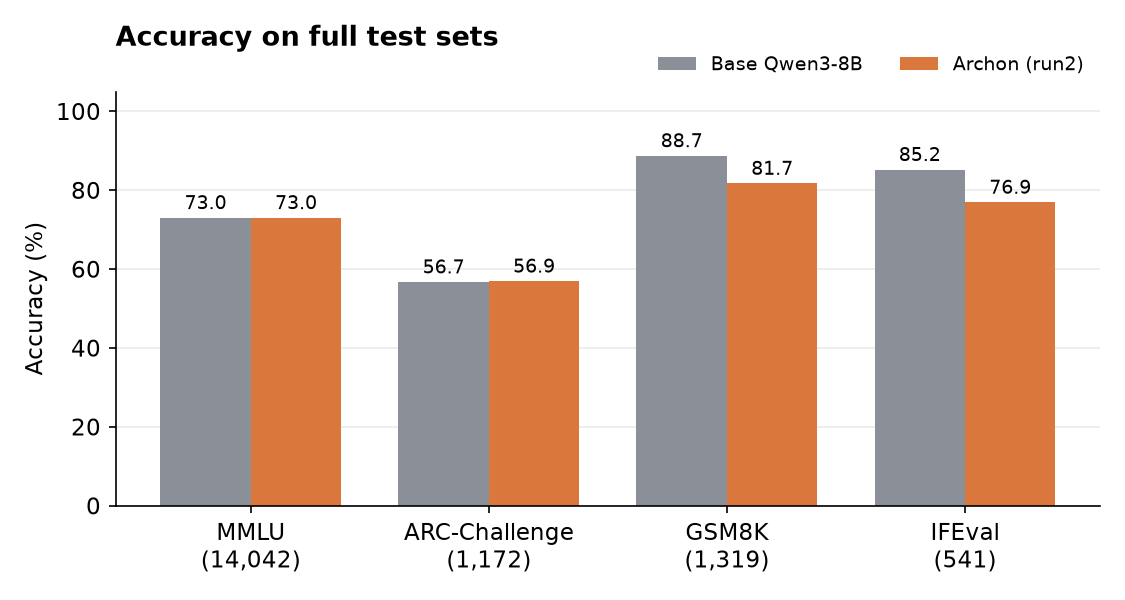
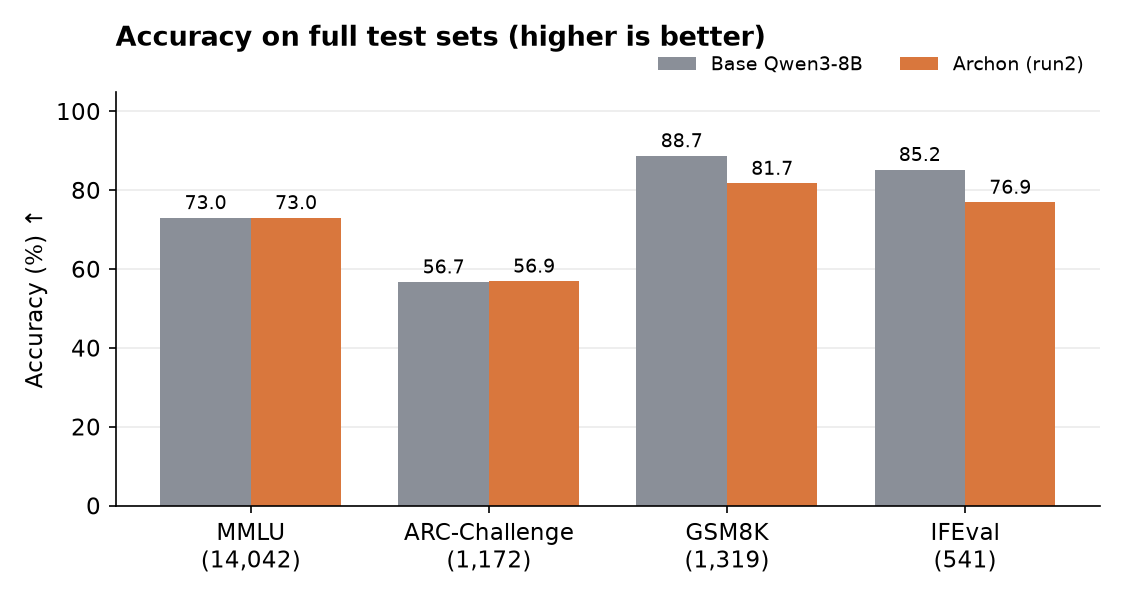
Charts and README: mark higher/lower is better

Changed region(s): [[0.4356, 0.03, 0.6844, 0.09], [0.0, 0.36, 0.0622, 0.57], [0.0, 0.6, 0.0622, 0.63]]

diff --git a/eval/bench_charts.py b/eval/bench_charts.py
@@ -22,11 +22,11 @@ def grouped(fname, title, ylabel, cats, base, ft, fmt, ymax=None):
     ax.legend(frameon=False, loc="lower right", bbox_to_anchor=(1, 1.0), ncol=2, fontsize=9); ax.grid(axis="y", alpha=0.25); ax.set_axisbelow(True)
     fig.tight_layout(); fig.savefig(f"{out}/{fname}", facecolor="white"); plt.close(fig)
 
-grouped("accuracy.png", "Accuracy on full test sets", "Accuracy (%)",
+grouped("accuracy.png", "Accuracy on full test sets (higher is better)", "Accuracy (%) ↑",
         ["MMLU\n(14,042)", "ARC-Challenge\n(1,172)", "GSM8K\n(1,319)", "IFEval\n(541)"],
         [73.0, 56.7, 88.7, 85.2], [73.0, 56.9, 81.7, 76.9], lambda v: f"{v:.1f}", 105)
-grouped("tokens.png", "Average tokens per answer, thinking included", "Tokens",
+grouped("tokens.png", "Tokens per answer, incl. thinking (lower is better)", "Tokens ↓",
         ["GSM8K", "IFEval"], [896, 1204], [281, 481], lambda v: f"{v:,.0f}")
-grouped("time.png", "Time per benchmark on one NVIDIA L4", "Minutes",
+grouped("time.png", "Time per benchmark on one L4 (lower is better)", "Minutes ↓",
         ["MMLU + ARC", "GSM8K", "IFEval", "Total"], [42, 103, 31, 176], [38, 36, 18, 92], lambda v: f"{v:.0f}")
 print("ok")

diff --git a/README.md b/README.md
@@ -51,7 +51,9 @@ wrong arithmetic (69 vs 31) and incoherent reasoning (67 vs 9). Full write-up in
 Full test sets, [lm-evaluation-harness](https://github.com/EleutherAI/lm-evaluation-harness) 0.4.13
 with vLLM on one NVIDIA L4, identical prompts and settings for both models.
 
-| Benchmark | Base Qwen3-8B | Archon (run 2) | Δ |
+Accuracy in %, higher is better.
+
+| Benchmark ↑ | Base Qwen3-8B | Archon (run 2) | Δ |
 |---|---|---|---|
 | MMLU (14,042, 5-shot) | 73.0 | 73.0 | 0.0 |
 | ARC-Challenge (1,172, acc_norm) | 56.7 | 56.9 | +0.2 |
@@ -60,7 +62,9 @@ with vLLM on one NVIDIA L4, identical prompts and settings for both models.
 
 ![Accuracy on full test sets](results/run2/bench/accuracy.png)
 
-| Efficiency | Base Qwen3-8B | Archon (run 2) |
+Lower is better for both tokens and time.
+
+| Efficiency ↓ | Base Qwen3-8B | Archon (run 2) |
 |---|---|---|
 | Tokens per GSM8K answer (incl. thinking) | 896 | 281 |
 | Tokens per IFEval answer (incl. thinking) | 1,204 | 481 |
